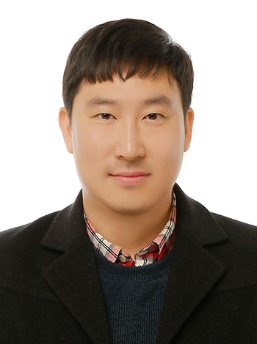
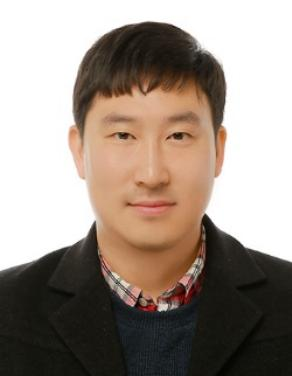
update members

diff --git a/_members/Sooin-Choi.md b/_members/Sooin-Choi.md
@@ -1,0 +1,23 @@
+---
+name: Sooin Choi
+image: images/최수인.jpg
+description: B.S. Researcher
+aliases:
+  - name: Sooin Choi
+links:
+tier: fifth
+---
+#### **Research intersts**
+- *Mobile Manipulator Control*
+- *Human Robot Interaction*
+- *Machine/Deep Learning*
+
+
+#### **Education**
+- *(2022~present) B.S. Robotics Engineering, Hanyang University(ERICA)* 
+
+
+
+
+
+
